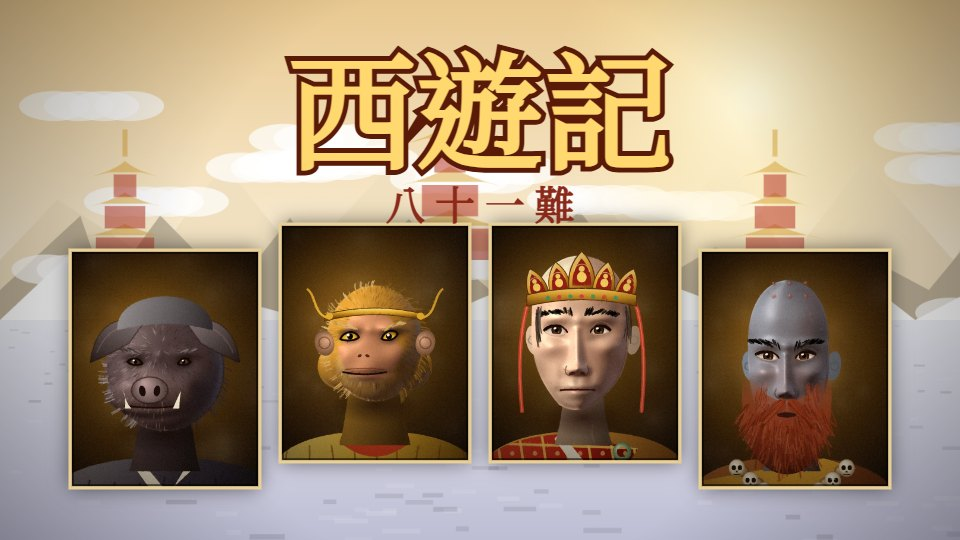
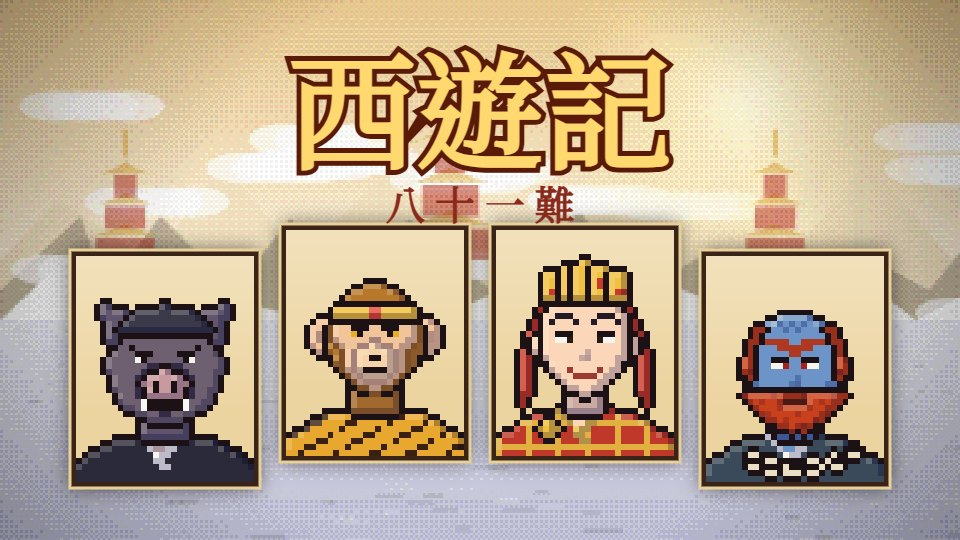
Lobby: new pixel-art thumbnail for Journey to the West

diff --git a/games.js b/games.js
@@ -13,7 +13,7 @@ window.GAMES = [
   {
     id: 'xiyouji',
     url: '/xiyouji/',
-    thumb: 'thumbs/xiyouji.jpg?v=1',
+    thumb: 'thumbs/xiyouji.jpg?v=2',
     color: '#5a2418',
     genres: ['rpg', 'story'],
     devices: ['keyboard', 'touch'],

diff --git a/index.html b/index.html
@@ -78,7 +78,7 @@
     </form>
   </div>
 
-  <script src="games.js?v=88"></script>
+  <script src="games.js?v=89"></script>
   <script src="app.js?v=11"></script>
   <script type="module" src="account.js?v=2"></script>
 </body>
